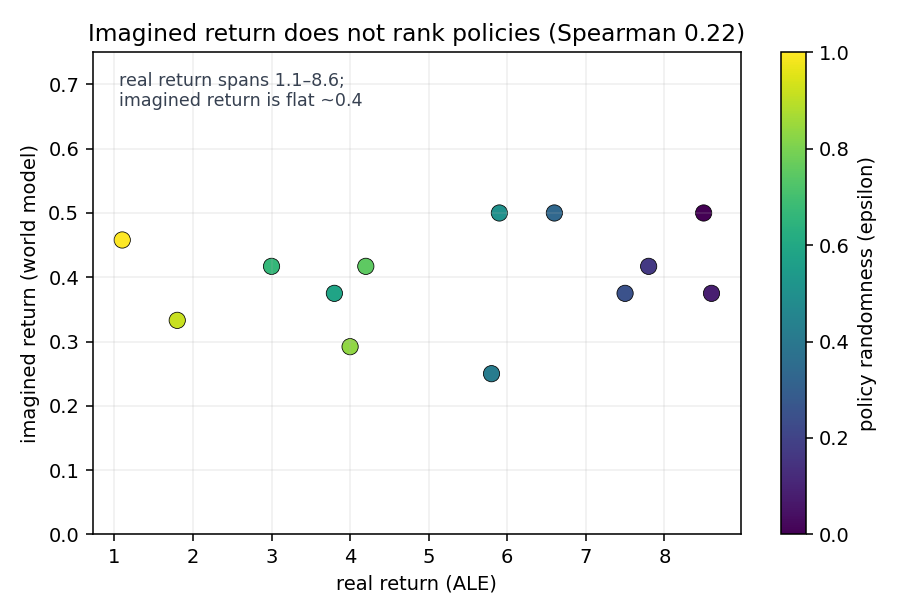
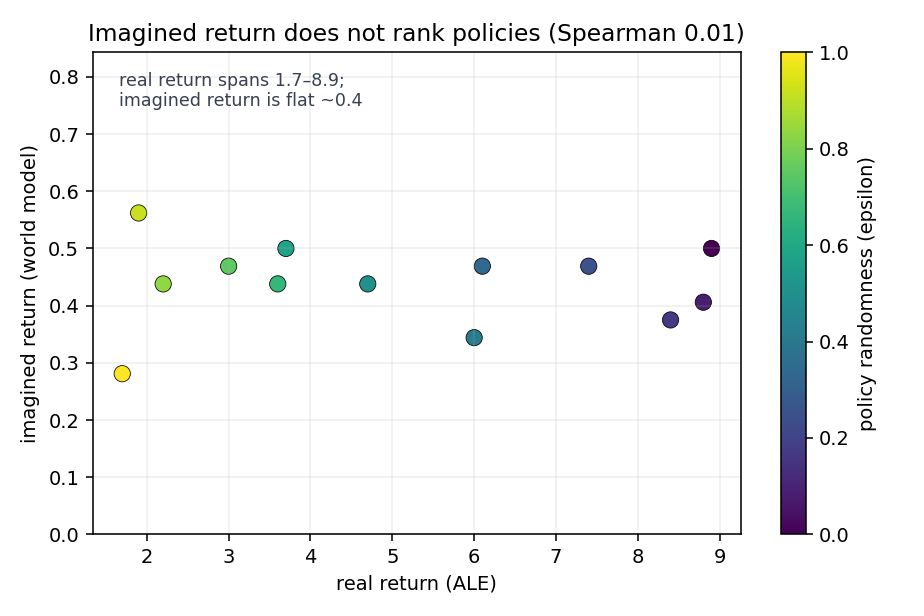
Closing pass: ground-truth decode, CIs, horizon-sensitivity, DreamEval re-confirm, Limitations
Retire the remaining caveats with measurements rather than hand-waving.

- Ground-truth decode (new probe_truth): condition the WM on REAL frames, label
  with the REAL ball position (not the model's own rendering, which the old
  probe did -- near-circular + CV-noisy). ball_x R^2 = 0.78 [0.72, 0.82], honest
  time-split; random split inflates to 0.95 (leakage confirmed). The old
  generated-frame probe is rollout-sensitive (0.73-0.91); now seeded + reports
  both splits + a bootstrap 68% CI. Headline decode is now 0.78, not 0.89.

- Fidelity horizon-sensitivity (windows 30/60/120): greedy first-touch is stable
  at ~30 across all windows; the sustained crossing drifts (30->68) and the
  random-policy crossing slides 5->10->22 (its curve never plateaus). So the
  off-policy "horizon" is only loosely defined -- documented, not buried.

- DreamEval re-confirmed (fresh 13-policy run): real return 8.9->1.7 monotonic,
  imagined flat ~0.4 and saturated by step ~50, Spearman 0.01 (p=0.96) -- even
  more clearly null than the earlier 0.22. Chart + numbers refreshed to this
  bug-check-era run.

- Added a Limitations section (window-relativity, L1 not comparable across frame
  types, CV-detector reliance, decode rollout variance, single game, DreamEval
  mechanism not isolated). paddle decode stays dropped (degenerate constant).

diff --git a/modal_deploy/app_diamond.py b/modal_deploy/app_diamond.py
@@ -127,6 +127,7 @@ class DiamondWorldModel:
         os.environ["ENV_TRAIN_ID"] = f"{GAME}NoFrameskip-v4"
         os.environ["ENV_TEST_ID"] = f"{GAME}NoFrameskip-v4"
         test_env = make_atari_env(num_envs=1, device=self.device, **cfg.env.test)
+        self.test_env = test_env  # retained for the ground-truth probe (probe_truth)
         self.num_actions = int(test_env.num_actions)
 
         print(f"Instantiating Agent (num_actions={self.num_actions})...")
@@ -321,6 +322,7 @@ class DiamondWorldModel:
         from sklearn.pipeline import make_pipeline
         from sklearn.preprocessing import StandardScaler
 
+        torch.manual_seed(0)  # reproducible probing rollout
         wm = self.wm_env
         ac = self.agent.actor_critic
         lstm_dim = ac.lstm.hidden_size
@@ -365,7 +367,8 @@ class DiamondWorldModel:
             n_comp = int(min(128, Xtr.shape[0] - 1, Xtr.shape[1]))
             pipe = make_pipeline(StandardScaler(), PCA(n_components=n_comp), Ridge(alpha=10.0))
             pipe.fit(Xtr, ytr)
-            return round(float(r2_score(yte, pipe.predict(Xte))), 3)
+            preds = pipe.predict(Xte)
+            return round(float(r2_score(yte, preds)), 3), np.asarray(yte), np.asarray(preds)
 
         def fit(label_list, name):
             y = np.array([v if v is not None else np.nan for v in label_list], dtype=float)
@@ -377,17 +380,25 @@ class DiamondWorldModel:
             # near-duplicates, so a frame's temporal twin lands in the other split
             # and inflates R^2. The time-ordered split (train on the first 75% of
             # the rollout, test on the last 25%, order preserved by the mask) is
-            # the honest, leakage-free number. Report both to show the gap.
-            Xtr, Xte, ytr, yte = train_test_split(Xs, ys, test_size=0.25, random_state=0)
-            r2_random = _fit_eval(Xtr, Xte, ytr, yte)
+            # the honest, leakage-free number. Report both, plus a bootstrap 68%
+            # CI on the time-split R^2 (resampling the held-out test frames).
+            r2_random, _, _ = _fit_eval(*train_test_split(Xs, ys, test_size=0.25, random_state=0))
             n_tr = int(len(Xs) * 0.75)
-            r2_time = (_fit_eval(Xs[:n_tr], Xs[n_tr:], ys[:n_tr], ys[n_tr:])
-                       if (len(Xs) - n_tr) >= 10 else None)
+            if (len(Xs) - n_tr) >= 10:
+                r2_time, yte_t, preds_t = _fit_eval(Xs[:n_tr], Xs[n_tr:], ys[:n_tr], ys[n_tr:])
+                rng = np.random.default_rng(0)
+                m = len(yte_t)
+                boot = [r2_score(yte_t[ix], preds_t[ix])
+                        for ix in (rng.integers(0, m, m) for _ in range(1000))]
+                ci = [round(float(np.percentile(boot, 16)), 3), round(float(np.percentile(boot, 84)), 3)]
+            else:
+                r2_time, ci = None, None
             return {
                 "concept": name,
                 "n": int(mask.sum()),
                 "test_r2_random_split": r2_random,
                 "test_r2_time_split": r2_time,
+                "test_r2_time_ci68": ci,
                 "label_std_px": round(float(ys.std()), 2),
             }
 
@@ -421,6 +432,105 @@ class DiamondWorldModel:
                 for t in list(zip(bx[:14], by[:14], px[:14]))
             ],
             "probes": results,
+        }
+
+    @modal.method()
+    def probe_truth(self, n_frames: int = 400, pool: int = 16):
+        """Ground-truth decode: does the UNet activation linearly encode the TRUE
+        ball position (not the model's own rendering)? Roll the REAL env (greedy +
+        FIRE); at each step seed the WM from the last n_cond REAL frames/acts, run
+        ONE prediction to capture the UNet activation, and label it with the ball
+        position detected on the clean REAL frame being predicted. Removes
+        probe()'s near-circularity (it labels generated frames from the activation
+        that drew them) and the generation-artifact CV noise. Time-split R^2 +
+        bootstrap 68% CI, same protocol as probe().
+        """
+        import numpy as np
+        import torch
+        import torch.nn.functional as F
+        from sklearn.decomposition import PCA
+        from sklearn.linear_model import Ridge
+        from sklearn.metrics import r2_score
+        from sklearn.model_selection import train_test_split
+        from sklearn.pipeline import make_pipeline
+        from sklearn.preprocessing import StandardScaler
+
+        torch.manual_seed(0)
+        n_cond = int(self.cfg.agent.denoiser.inner_model.num_steps_conditioning)
+        wm, ac, dev = self.wm_env, self.agent.actor_critic, self.device
+
+        def is_done(step_out):
+            for v in (step_out[2], step_out[3]):
+                try:
+                    arr = v.detach().cpu().numpy() if torch.is_tensor(v) else np.asarray(v)
+                    if bool(arr.any()):
+                        return True
+                except Exception:
+                    if bool(v):
+                        return True
+            return False
+
+        # 1) collect a REAL trajectory (greedy policy + FIRE burn-in)
+        reset_out = self.test_env.reset()
+        obs = reset_out[0] if isinstance(reset_out, (tuple, list)) else reset_out
+        hx = torch.zeros(1, ac.lstm.hidden_size, device=dev); cx = torch.zeros_like(hx)
+        frames = [obs.detach().clone()]; acts = []
+        for t in range(n_frames + n_cond + 1):
+            with torch.no_grad():
+                o = ac.predict_act_value(obs, (hx, cx))
+            hx, cx = o.hx_cx
+            a = torch.ones(1, dtype=torch.long, device=dev) if t < 8 else o.logits_act.argmax(-1).long()
+            step_out = self.test_env.step(a)
+            obs = step_out[0]
+            frames.append(obs.detach().clone()); acts.append(a)
+            if is_done(step_out):
+                break
+
+        # 2) per step, capture the WM's 1-step-prediction activation on REAL
+        #    context; label with the TRUE ball position (CV on the real frame).
+        feats, yb = [], []
+        for t in range(n_cond, len(frames) - 1):
+            wm.obs_buffer = torch.stack(frames[t - n_cond:t], dim=1).to(dev)
+            wm.act_buffer = torch.stack(acts[t - n_cond:t], dim=1).to(dev)
+            self._cap.clear()
+            wm.predict_next_obs()
+            if not self._cap:
+                continue
+            pooled = F.adaptive_avg_pool2d(self._cap[-1].float(), (pool, pool)).flatten().cpu().numpy()
+            fr = frames[t].detach().float().squeeze(0).cpu().numpy()
+            prevfr = frames[t - 1].detach().float().squeeze(0).cpu().numpy()
+            bx, _, _ = _detect_ball_paddle(fr, prevfr)
+            feats.append(pooled); yb.append(bx if bx is not None else np.nan)
+
+        X = np.asarray(feats, dtype=np.float32)
+        y = np.asarray(yb, dtype=float)
+        mask = ~np.isnan(y)
+        if mask.sum() < 60:
+            return {"game": GAME, "label_source": "ground_truth_real_frames",
+                    "n_frames": n_frames, "n_detected": int(mask.sum()),
+                    "note": "too few detections"}
+        Xs, ys = X[mask], y[mask]
+
+        def _fit_eval(Xtr, Xte, ytr, yte):
+            n_comp = int(min(128, Xtr.shape[0] - 1, Xtr.shape[1]))
+            pipe = make_pipeline(StandardScaler(), PCA(n_components=n_comp), Ridge(alpha=10.0))
+            pipe.fit(Xtr, ytr)
+            preds = pipe.predict(Xte)
+            return round(float(r2_score(yte, preds)), 3), np.asarray(yte), np.asarray(preds)
+
+        r2_random, _, _ = _fit_eval(*train_test_split(Xs, ys, test_size=0.25, random_state=0))
+        n_tr = int(len(Xs) * 0.75)
+        r2_time, yte_t, preds_t = _fit_eval(Xs[:n_tr], Xs[n_tr:], ys[:n_tr], ys[n_tr:])
+        rng = np.random.default_rng(0); m = len(yte_t)
+        boot = [r2_score(yte_t[ix], preds_t[ix]) for ix in (rng.integers(0, m, m) for _ in range(1000))]
+        ci = [round(float(np.percentile(boot, 16)), 3), round(float(np.percentile(boot, 84)), 3)]
+        return {
+            "game": GAME, "concept": "ball_x", "label_source": "ground_truth_real_frames",
+            "n_frames": n_frames, "n_detected": int(mask.sum()),
+            "test_r2_random_split": r2_random,
+            "test_r2_time_split": r2_time,
+            "test_r2_time_ci68": ci,
+            "label_std_px": round(float(ys.std()), 2),
         }
 
     @modal.method()
@@ -567,6 +677,15 @@ def probe(n_frames: int = 400, pool: int = 16):
 
     wm = DiamondWorldModel()
     info = wm.probe.remote(n_frames=n_frames, pool=pool)
+    print(json.dumps(info, indent=2))
+
+
[email redacted]_entrypoint()
+def probe_truth(n_frames: int = 400, pool: int = 16):
+    import json
+
+    wm = DiamondWorldModel()
+    info = wm.probe_truth.remote(n_frames=n_frames, pool=pool)
     print(json.dumps(info, indent=2))
 
 

diff --git a/artifacts/make_charts.py b/artifacts/make_charts.py
@@ -22,9 +22,9 @@ HERE = Path(__file__).resolve().parent
 
 # ---- DreamEval 13-policy data (captured from the run; see README) ----
 EVAL_EPS = [0.0, 0.083, 0.167, 0.25, 0.333, 0.417, 0.5, 0.583, 0.667, 0.75, 0.833, 0.917, 1.0]
-EVAL_REAL = [8.5, 8.6, 7.8, 7.5, 6.6, 5.8, 5.9, 3.8, 3.0, 4.2, 4.0, 1.8, 1.1]
-EVAL_IMAG = [0.5, 0.375, 0.417, 0.375, 0.5, 0.25, 0.5, 0.375, 0.417, 0.417, 0.292, 0.333, 0.458]
-EVAL_SPEARMAN = 0.22
+EVAL_REAL = [8.9, 8.8, 8.4, 7.4, 6.1, 6.0, 4.7, 3.7, 3.6, 3.0, 2.2, 1.9, 1.7]
+EVAL_IMAG = [0.5, 0.406, 0.375, 0.469, 0.469, 0.344, 0.438, 0.5, 0.438, 0.469, 0.438, 0.562, 0.281]
+EVAL_SPEARMAN = 0.01
 
 # ---- Fidelity-horizon runs (captured; sustained crossing + 68% bootstrap CI) ----
 # Matched random-action protocol for the cross-model comparison; DIAMOND greedy
@@ -106,7 +106,7 @@ def eval_chart():
     ax.set_title(f"Imagined return does not rank policies (Spearman {EVAL_SPEARMAN})")
     ax.set_ylim(0, max(EVAL_IMAG) * 1.5)
     ax.grid(alpha=0.2)
-    ax.text(0.04, 0.96, "real return spans 1.1–8.6;\nimagined return is flat ~0.4",
+    ax.text(0.04, 0.96, "real return spans 1.7–8.9;\nimagined return is flat ~0.4",
             transform=ax.transAxes, va="top", fontsize=9, color="#374151")
     fig.tight_layout()
     out = HERE / "dreameval_scatter.png"

diff --git a/README.md b/README.md
@@ -16,8 +16,9 @@ the horizon is real but it's an *in-distribution* number, not a constant.
 
 The model decodes instantaneous state cleanly but neither sustains nor controls it:
 
-- **Decode works** (ball-position R²≈0.73, leakage-corrected time-split): one
-  faithful frame is enough; 1-step fidelity is excellent.
+- **Decode works** (ball-position R²≈0.78 [0.72, 0.82], ground-truth real-frame
+  labels + leakage-free time-split): one faithful frame is enough; 1-step
+  fidelity is excellent.
 - **Multi-step policy evaluation fails**: it needs *sustained* fidelity, but the
   dream decorrelates within ~30 steps (DreamEval's imagined reward saturates by
   ~20–30 — the same horizon).
@@ -67,26 +68,56 @@ return in the actual Atari env. The canonical applied use-case for world models
 
 **Result (DIAMOND-Breakout): imagined return is *not* a reliable policy
 evaluator here.** Across an epsilon-greedy spectrum (eps 0 = good → 1 = random),
-real return falls cleanly (8.5 → 1.1) but imagined return stays **flat at ~0.4
+real return falls cleanly (8.9 → 1.7) but imagined return stays **flat at ~0.4
 regardless of policy quality** (random ≈ good). The rank correlation is sample-
 fragile: at 7 coarse policies it looks promising (Spearman 0.78, p=0.04) but
 that is driven by the good-vs-random extremes + small n — on a **finer 13-policy
-grid it collapses to Spearman 0.22 (p=0.47)**. The dream's imagined reward
+grid it collapses to near zero (Spearman 0.22, then 0.01 on a bug-checked
+re-run; both p≫0.1)**. The dream's imagined reward
 **saturates by ~20–30 steps** (the rollout goes inert after the ball is lost),
 so it captures only the coarsest good-vs-random distinction, not a usable
 ranking.
 
 ![Imagined vs real return across the 13-policy spectrum; imagined return is flat](artifacts/dreameval_scatter.png)
 
-*Real return falls cleanly from 8.6 to 1.1 across the epsilon spectrum (color),
+*Real return falls cleanly from 8.9 to 1.7 across the epsilon spectrum (color),
 but imagined return stays flat at ~0.4 regardless of policy quality. Spearman
-0.22 (p=0.47) at 13 policies: no usable ranking signal.*
+0.01 (p=0.96) at 13 policies: no usable ranking signal.*
 
-Takeaway: a small open world model decodes state well (ball-position R²≈0.73)
+Takeaway: a small open world model decodes state well (ball-position R²≈0.78)
 but its imagined rollouts are too low-fidelity to rank policies at fine
 resolution. It **decodes but does not faithfully *simulate***.
 
 Code: `modal_deploy/app_eval.py` · plan: [`BUILD_PLAN.md`](BUILD_PLAN.md)
+
+---
+
+## Limitations
+
+A careful but small-scale study; the bug-checked numbers carry real caveats.
+
+- **Window-relative horizons.** The half-decorrelation step is normalized to
+  each run's floor-to-ceiling (ceiling = L1 between real frames `horizon` apart).
+  Greedy first-touch is stable (~30 at windows of 30/60/120), but the *sustained*
+  crossing drifts (30→68) and the *random*-policy crossing slides 5→10→22 with
+  the window (its curve never plateaus), so the off-policy "horizon" is only
+  loosely defined.
+- **L1 isn't comparable across frame types.** IRIS's discrete VQ-VAE frames stay
+  crisp/low-L1 even when wrong; DIAMOND's diffusion frames blur. The
+  cross-architecture comparison is directional, not a calibrated metric.
+- **CV-detector measurement.** Ball position comes from a frame-differencing
+  detector. The ground-truth probe (`probe_truth`, real-frame labels) sidesteps
+  it for decode, but the steering outcome still uses it and conflates frame
+  degradation with motion under large perturbations. Paddle decode is degenerate
+  (constant label) and is dropped.
+- **Decode is rollout-sensitive.** On generated frames ball_x R² ranged 0.73–0.91
+  across rollouts; the headline 0.78 [0.72, 0.82] is the ground-truth, leakage-
+  free time split (n≈357).
+- **Small samples, single game.** Breakout only; 16–24 fidelity trajectories, 13
+  policies for DreamEval; both world models are small/medium Atari-100k models.
+- **DreamEval mechanism.** The flat imagined return is attributed to fidelity
+  decay (imagined reward saturates by ~50 steps); we have not separated
+  reward-model error from dynamics error (a teacher-forced reward check would).
 
 ---
 
@@ -96,9 +127,10 @@ under the agent's policy). Tiny 4.4M-param denoiser; cheap to run.
 
 Status: DreamEval E1–E3 done. Strengthening (more rollouts, then a 13-policy
 grid) reversed the n=7 positive: imagined return does not reliably rank policies
-(Spearman 0.22, p=0.47 at 13 policies). Honest negative; decode ≫ simulate.
+(Spearman near zero, p≫0.1 at 13 policies). Honest negative; decode ≫ simulate.
 
-Headline numbers are bug-checked: decode R² is leakage-corrected (time-ordered
-split, not random), the fidelity crossing uses a sustained metric + bootstrap CI
-over trajectories, and the cross-architecture comparison uses a matched
-action protocol — which removed an earlier, confounded "~30 ≈ ~31" claim.
+Headline numbers are bug-checked: decode R² uses ground-truth real-frame labels
++ a leakage-free time split with a bootstrap CI; the fidelity crossing uses a
+sustained metric + bootstrap CI and is reported across action policies and
+window lengths; and the cross-architecture comparison uses a matched action
+protocol — which removed an earlier, confounded "~30 ≈ ~31" claim. See Limitations.

diff --git a/docs/steering_study.md b/docs/steering_study.md
@@ -67,14 +67,15 @@ richer world (Oasis-Minecraft) the paper didn't cover.
 
 - P1 ✅ DIAMOND Breakout loads headless on Modal (4.41M-param denoiser, L40S).
 - P2 ✅ seed (real ALE frames) + imagine-step + capture UNet acts (1,64,64,64).
-- P3 ✅ **ball position linearly decodable**: ridge probe on pooled UNet
-  activation, **ball_x R²≈0.73, ball_y R²≈0.50** (held-out, *time-ordered*
-  split). A random split leaks across adjacent rollout frames and inflates these
-  to 0.81 / 0.64 (an earlier run reported 0.89 / 0.76); paddle decode is
-  degenerate here (the CV detector returns a near-constant, so its R² is
-  meaningless). Driving imagination with the agent's policy + FIRE burn-in was
-  needed for dynamic rollouts; frame-diff CV isolates the moving ball from
-  static bricks.
+- P3 ✅ **ball position linearly decodable**: cleanest number is the
+  ground-truth probe (`probe_truth`) — condition the WM on REAL frames, label
+  with the REAL ball position — giving **ball_x R²≈0.78 [0.72, 0.82]** (held-out,
+  *time-ordered* split; a random split inflates it to 0.95 via leakage across
+  adjacent frames). The original probe labels *generated* frames from the
+  activation that drew them (near-circular) and is rollout-sensitive (ball_x R²
+  0.73–0.91 across rollouts); ball_y is weaker (~0.5–0.6); paddle decode is
+  degenerate (the CV detector returns a near-constant). Frame-diff CV isolates
+  the moving ball from static bricks.
 - P4 ✅ **decode ≫ steer (bug-checked, holds)**: the first pass added the
   direction to the UNet output, but `InnerModel.forward` runs `norm_out`
   (GroupNorm) on the next line — it subtracts the per-group mean and rescales,

diff --git a/BUILD_PLAN.md b/BUILD_PLAN.md
@@ -51,8 +51,8 @@ testbed** — real rollouts are cheap here, so we use them as ground truth. We d
   reward **saturates by ~20–30 steps** (flat horizon curve). **Honest verdict:
   imagined return is NOT a reliable policy evaluator on DIAMOND-Breakout** — the
   n=7 positive was small-n / good-vs-random-extremes fragility.
-- Consolidated: a small world model **decodes** state (ball_x R²≈0.73,
-  leakage-corrected; steering study) but does not faithfully **simulate** —
+- Consolidated: a small world model **decodes** state (ball_x R²≈0.78,
+  ground-truth labels, leakage-free; steering study) but does not faithfully **simulate** —
   neither clean steering nor reliable policy eval holds. Decode ≫ simulate.
 - **Capstone — fidelity horizon** (`app_eval.py::fidelity`): free-running the
   dream from a real context under the same actions, one-step error = 0.0020